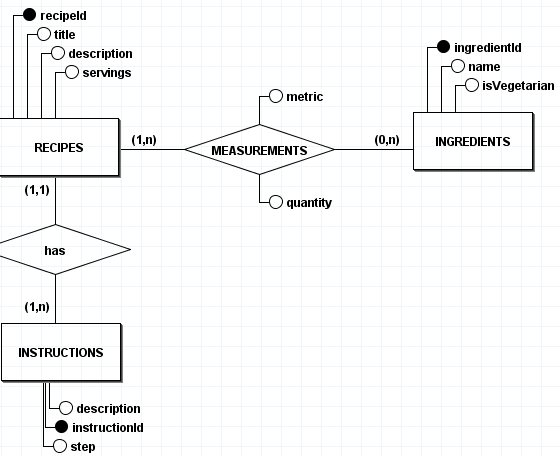
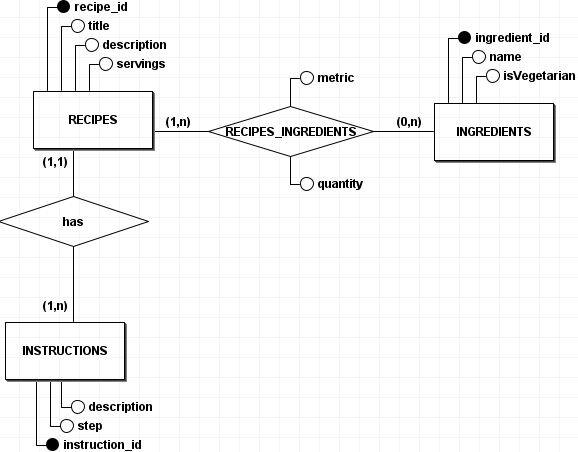
refactor: changes database table name from measuments to recipe_ingredients

diff --git a/recipeapi/src/main/java/com/recime/recipeapi/service/RecipeService.java b/recipeapi/src/main/java/com/recime/recipeapi/service/RecipeService.java
@@ -11,7 +11,7 @@ import com.recime.recipeapi.dto.IngredientWithMeasurementDto;
 import com.recime.recipeapi.dto.InstructionDto;
 import com.recime.recipeapi.dto.RecipeResponseDto;
 import com.recime.recipeapi.model.Instruction;
-import com.recime.recipeapi.model.Measurement;
+import com.recime.recipeapi.model.RecepiesIngredients;
 import com.recime.recipeapi.model.Recipe;
 import com.recime.recipeapi.repository.RecipeRepository;
 
@@ -20,13 +20,13 @@ public class RecipeService {
 
     private final RecipeRepository repository;
     private final InstructionService instructionService;
-    private final MeasurementService measurementService;
+    private final RecepiesIngredientsService recepiesIngredientsService;
 
     public RecipeService(RecipeRepository repository, InstructionService instructionService,
-            MeasurementService measurementService) {
+            RecepiesIngredientsService recepiesIngredientsService) {
         this.repository = repository;
         this.instructionService = instructionService;
-        this.measurementService = measurementService;
+        this.recepiesIngredientsService = recepiesIngredientsService;
     }
 
     public List<RecipeResponseDto> getAllRecipes() {
@@ -34,7 +34,7 @@ public class RecipeService {
 
         if (recipes.isPresent()) {
             return recipes.get().stream().map(recipe -> {
-                return mapRecipeToDto(recipe, recipe.getInstructions(), recipe.getMeasurements());
+                return mapRecipeToDto(recipe, recipe.getInstructions(), recipe.getRecepiesIngredients());
             }).collect(Collectors.toList());
         }
 
@@ -45,23 +45,24 @@ public class RecipeService {
         Optional<Recipe> recipe = repository.findById(id);
         if (recipe.isPresent()) {
             RecipeResponseDto dto = mapRecipeToDto(recipe.get(), recipe.get().getInstructions(),
-                    recipe.get().getMeasurements());
+                    recipe.get().getRecepiesIngredients());
             return dto;
         }
         return null;
     }
 
     private RecipeResponseDto mapRecipeToDto(Recipe recipe, List<Instruction> instructions,
-            List<Measurement> measurements) {
+            List<RecepiesIngredients> recepiesIngredients) {
 
         List<InstructionDto> instructionDtos = instructions == null
                 ? Collections.emptyList()
                 : instructions.stream().map(instructionService::mapInstructionToDto)
                         .collect(Collectors.toList());
 
-        List<IngredientWithMeasurementDto> ingredientWithMeasurementDtos = measurements == null
+        List<IngredientWithMeasurementDto> ingredientWithMeasurementDtos = recepiesIngredients == null
                 ? Collections.emptyList()
-                : measurements.stream().map(measurementService::mapMeasurementToIngredientWithMeasurementDto)
+                : recepiesIngredients.stream()
+                        .map(recepiesIngredientsService::mapRecepiesIngredientsToIngredientWithMeasurementDto)
                         .collect(Collectors.toList());
 
         return new RecipeResponseDto(recipe.getRecipeId(), recipe.getTitle(), recipe.getDescription(),

diff --git a/recipeapi/src/main/java/com/recime/recipeapi/service/RecepiesIngredientsService.java b/recipeapi/src/main/java/com/recime/recipeapi/service/RecepiesIngredientsService.java
@@ -1,0 +1,34 @@
+package com.recime.recipeapi.service;
+
+import java.util.Optional;
+
+import org.springframework.stereotype.Service;
+
+import com.recime.recipeapi.dto.IngredientWithMeasurementDto;
+import com.recime.recipeapi.model.RecepiesIngredients;
+import com.recime.recipeapi.repository.RecepiesIngredientsRepository;
+
+@Service
+public class RecepiesIngredientsService {
+
+    private final RecepiesIngredientsRepository repository;
+
+    public RecepiesIngredientsService(RecepiesIngredientsRepository repository) {
+        this.repository = repository;
+    }
+
+    public Optional<RecepiesIngredients> save(RecepiesIngredients e) {
+        return Optional.of(repository.save(e));
+    }
+
+    public IngredientWithMeasurementDto mapRecepiesIngredientsToIngredientWithMeasurementDto(
+            RecepiesIngredients recepiesIngredients) {
+        IngredientWithMeasurementDto dto = new IngredientWithMeasurementDto();
+        dto.setIngredientId(recepiesIngredients.getIngredient().getIngredientId());
+        dto.setName(recepiesIngredients.getIngredient().getName());
+        dto.setIsVegetarian(recepiesIngredients.getIngredient().getIsVegetarian());
+        dto.setMetric(recepiesIngredients.getMetric());
+        dto.setQuantity(recepiesIngredients.getQuantity());
+        return dto;
+    }
+}

diff --git a/recipeapi/src/main/java/com/recime/recipeapi/model/RecepiesIngredients.java b/recipeapi/src/main/java/com/recime/recipeapi/model/RecepiesIngredients.java
@@ -4,13 +4,13 @@ import jakarta.persistence.*;
 import lombok.*;
 
 @Entity
-@Table(name = "measurements")
+@Table(name = "recepies_ingredients")
 @Data
 @NoArgsConstructor
 @AllArgsConstructor
-public class Measurement {
+public class RecepiesIngredients {
     @EmbeddedId
-    private MeasurementId id;
+    private RecepiesIngredientsId id;
 
     @Column(name = "metric", nullable = false)
     private String metric;

diff --git a/recipeapi/src/main/java/com/recime/recipeapi/repository/RecepiesIngredientsRepository.java b/recipeapi/src/main/java/com/recime/recipeapi/repository/RecepiesIngredientsRepository.java
@@ -1,0 +1,10 @@
+package com.recime.recipeapi.repository;
+
+import org.springframework.data.jpa.repository.JpaRepository;
+
+import com.recime.recipeapi.model.RecepiesIngredients;
+import com.recime.recipeapi.model.RecepiesIngredientsId;
+
+public interface RecepiesIngredientsRepository extends JpaRepository<RecepiesIngredients, RecepiesIngredientsId> {
+
+}

diff --git a/recipeapi/src/main/java/com/recime/recipeapi/model/RecepiesIngredientsId.java b/recipeapi/src/main/java/com/recime/recipeapi/model/RecepiesIngredientsId.java
@@ -11,7 +11,7 @@ import java.io.Serializable;
 @NoArgsConstructor
 @AllArgsConstructor
 @EqualsAndHashCode
-public class MeasurementId implements Serializable {
+public class RecepiesIngredientsId implements Serializable {
 
     private Long ingredient_id;
     private Long recipe_id;

diff --git a/recipeapi/src/main/java/com/recime/recipeapi/model/Recipe.java b/recipeapi/src/main/java/com/recime/recipeapi/model/Recipe.java
@@ -27,6 +27,6 @@ public class Recipe {
     private List<Instruction> instructions;
 
     @OneToMany(mappedBy = "recipe", cascade = CascadeType.ALL)
-    private List<Measurement> measurements;
+    private List<RecepiesIngredients> recepiesIngredients;
 
 }
